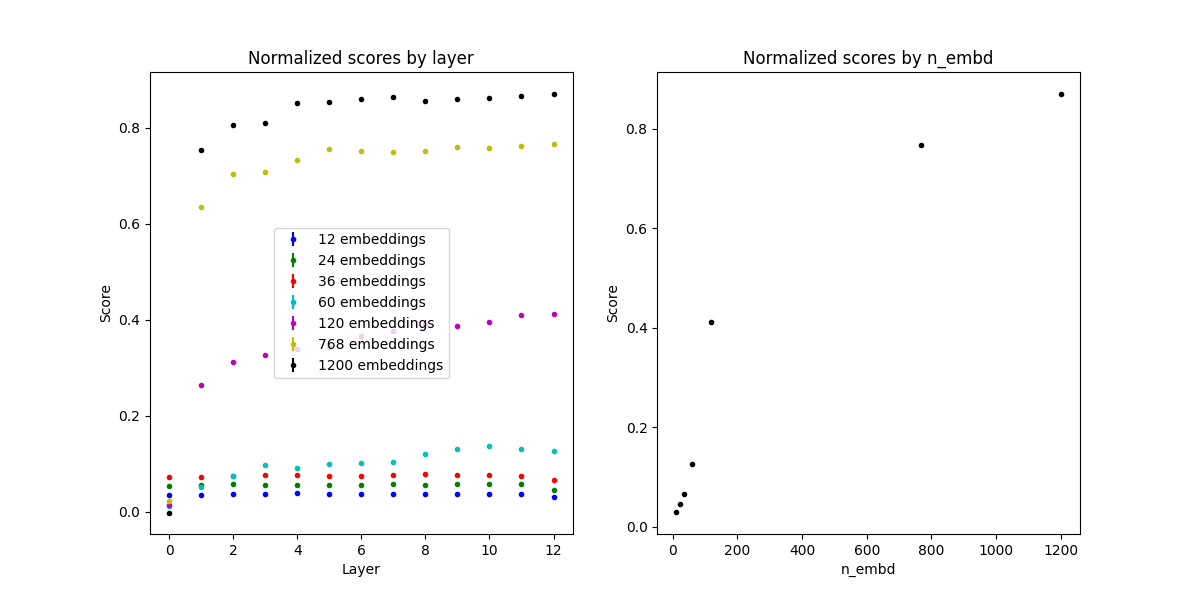
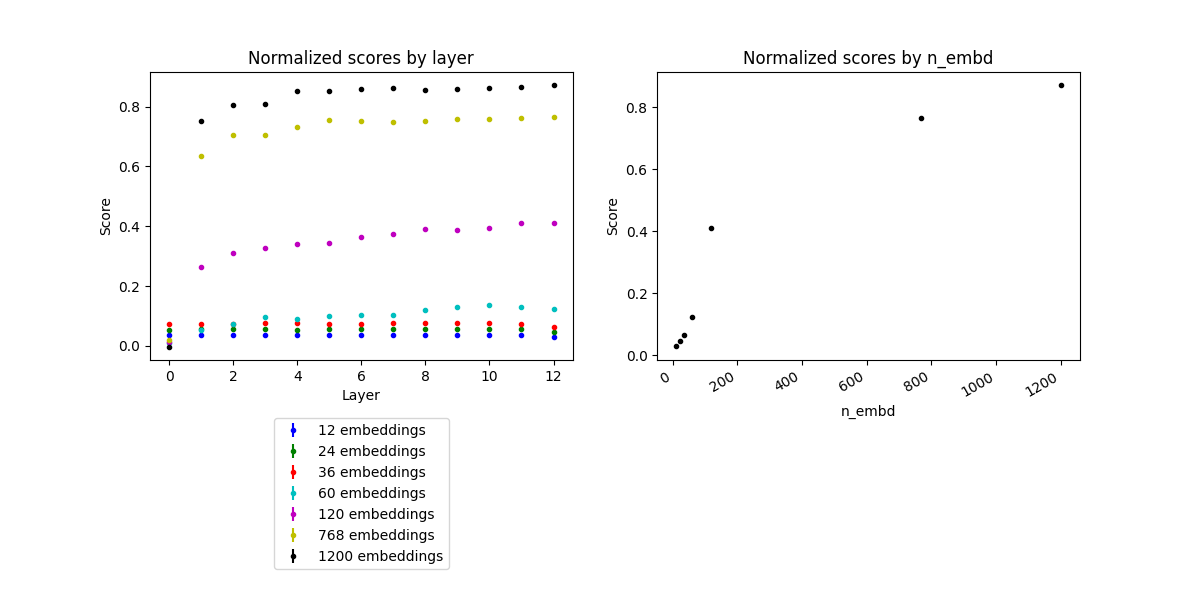
Add lobotomy analysis and some pics

diff --git a/candbproj/analyze/gpt2_embeddings_analysis.py b/candbproj/analyze/gpt2_embeddings_analysis.py
@@ -20,9 +20,11 @@ def main():
         result_set, group_mapping=group_mapper)
 
     figure, axis = plt.subplots(1, 2, figsize=(12, 6))
+    figure.subplots_adjust(bottom=0.4)
     dfs = dfs_by_layer(normalized_embeddings_scores)
     labels = [f"{key} embeddings" for key in normalized_embeddings_scores.keys()]
     layer_fill_axis(axis[0], dfs, labels)
+    axis[0].legend(loc="lower center", bbox_to_anchor=(0.5, -0.75))
 
     # In this case we only care about the last layer's scores
     final_results = {}

diff --git a/candbproj/analyze/analysis.py b/candbproj/analyze/analysis.py
@@ -140,5 +140,9 @@ def get_untrained_data():
 
 
 def generate_color():
-    for r in mcolors.BASE_COLORS:
+
+    colors = {**mcolors.BASE_COLORS, **mcolors.TABLEAU_COLORS}
+    colors.pop("w")
+
+    for r in colors:
         yield r
